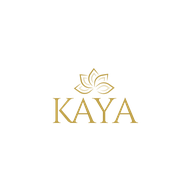
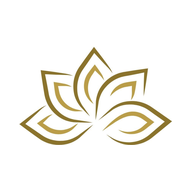
Ícono de la app: solo la flor + Finanzas más compacto en celular
- Los íconos pasan a ser la flor de loto sola (antes el logotipo con
  "KAYA", que en 192px no se leía). Cache del service worker a v2 para
  que los reemplace en quienes ya lo tienen.
- Finanzas en celular: la carga de saldos ocupaba casi una pantalla por
  cuenta. Campos de cuenta y monto a 13px, filas de 90 a 38px de alto;
  nombre y monto entran completos y se ven las dos columnas sin scroll.
- El campo se agranda a 16px solo en iPhone, que hace zoom si mide menos.

Changed region(s): [[0.0938, 0.25, 0.9062, 0.7812]]

diff --git a/index.html b/index.html
@@ -614,7 +614,17 @@
     .tab, .v-tab { flex:0 0 auto; padding:10px 14px; }
     .v-filters { gap:8px; }
     .v-select, .v-metric-btn { font-size:12px; padding:8px 10px; }
-    input.v-select, select.v-select { font-size:16px; }  /* evita el zoom automatico de iOS */
+    input.v-select, select.v-select { font-size:14px; }
+    /* iPhone hace zoom solo si el texto del campo mide menos de 16px */
+    html.ios input.v-select, html.ios select.v-select { font-size:16px; }
+
+    /* Finanzas: la carga de saldos ocupaba casi una pantalla por cuenta */
+    input.fin-cuenta-input { width:150px !important; }   /* entra "Reservas MP Ry" completo */
+    input.fin-saldo-input  { width:106px !important; }
+    input.fin-cuenta-input, input.fin-saldo-input { font-size:13px; padding:6px 8px; }
+    html.ios input.fin-cuenta-input, html.ios input.fin-saldo-input { font-size:16px; }
+    #fin-saldos-body td, #fin-total-row td { padding:4px 6px !important; }
+    #fin-saldos-body input { border-radius:5px; }
 
     /* --- Tablas anchas: se deslizan dentro de su caja --- */
     .v-chart-wrap, .linechart-wrap { padding:14px 10px; }
@@ -6360,6 +6370,7 @@ function renderMesEnCurso(){
 
 // ══ CELULAR + APP INSTALABLE ════════════════════════════
 const esMovil = () => window.matchMedia('(max-width: 820px)').matches;
+if(/iphone|ipad|ipod/i.test(navigator.userAgent)) document.documentElement.classList.add('ios');
 
 // Cajon de navegacion. Sin argumento alterna; con false siempre cierra.
 function toggleNav(forzar){

diff --git a/sw.js b/sw.js
@@ -4,7 +4,7 @@
 // - HTML/JS propio -> network-first (cache solo como salvavidas sin senal)
 // - logo e iconos   -> cache-first (no cambian)
 // - Google Sheets / Apps Script -> ni se tocan (siempre red)
-const CACHE = 'kaya-v1';
+const CACHE = 'kaya-v2';
 const ASSETS = ['./logo-kaya.png', './icon-192.png', './icon-512.png', './apple-touch-icon.png', './manifest.json'];
 
 self.addEventListener('install', e => {
